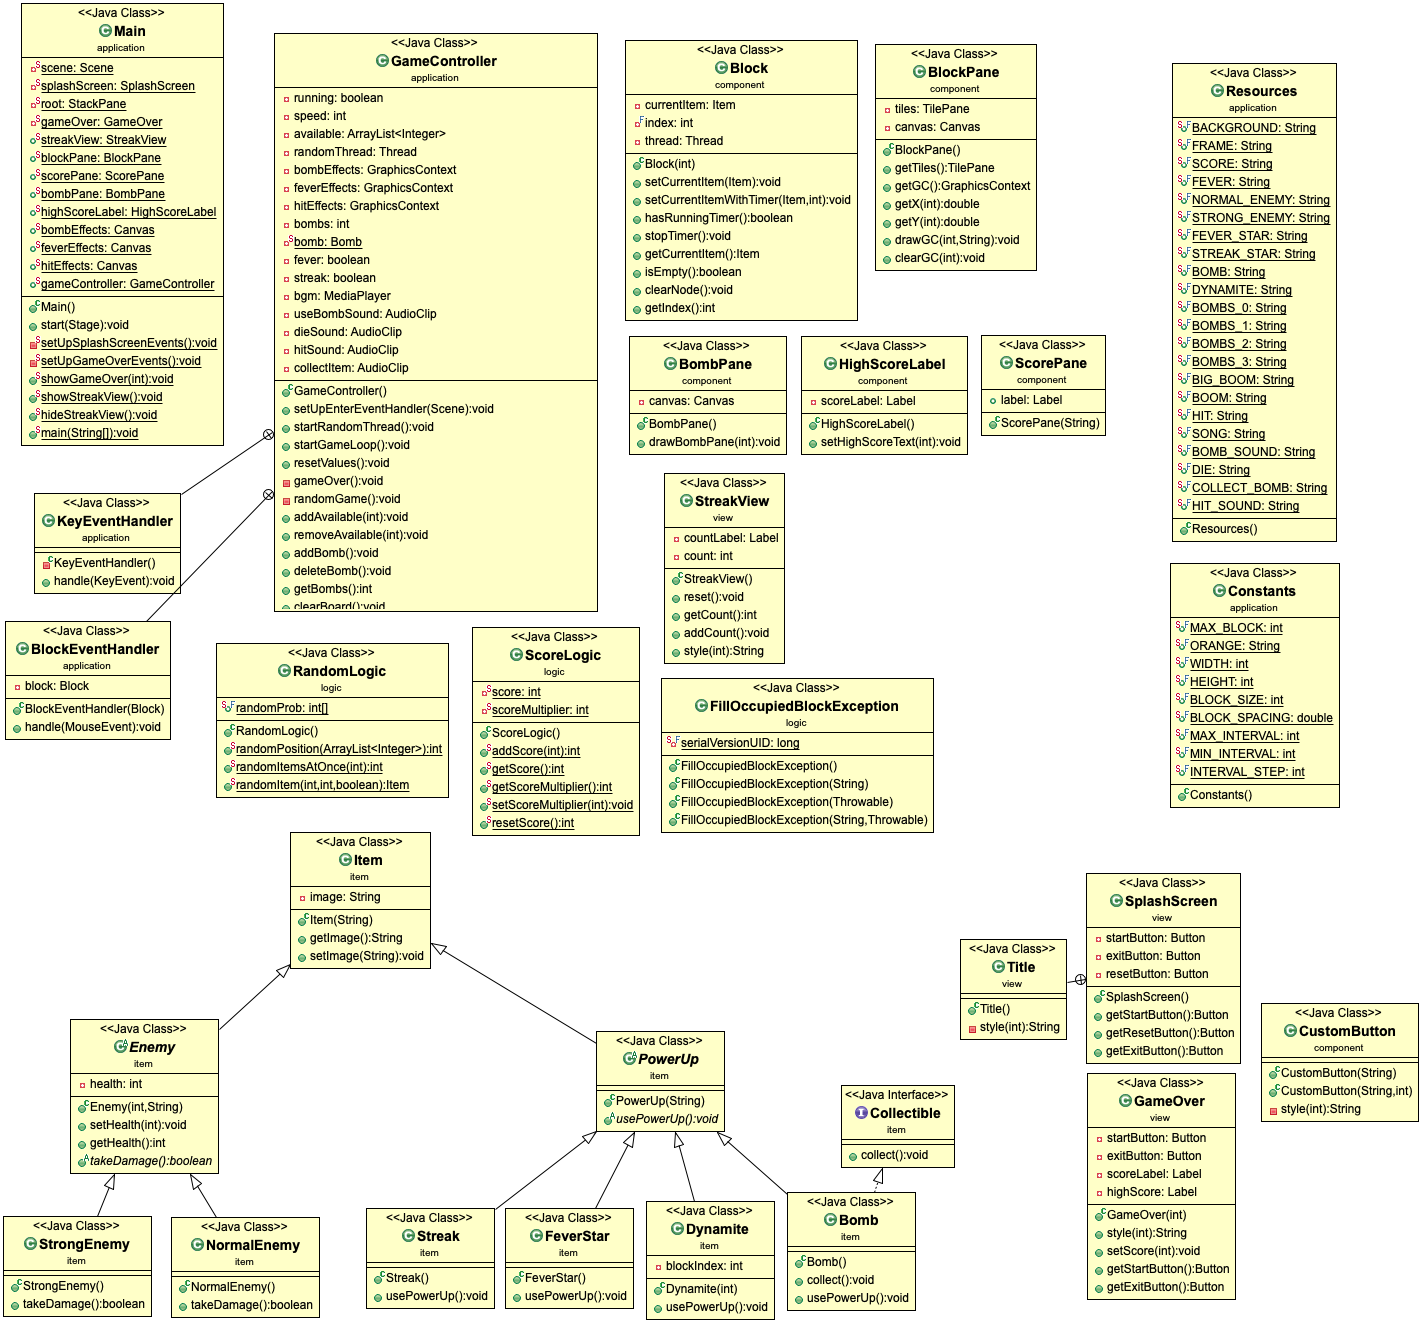
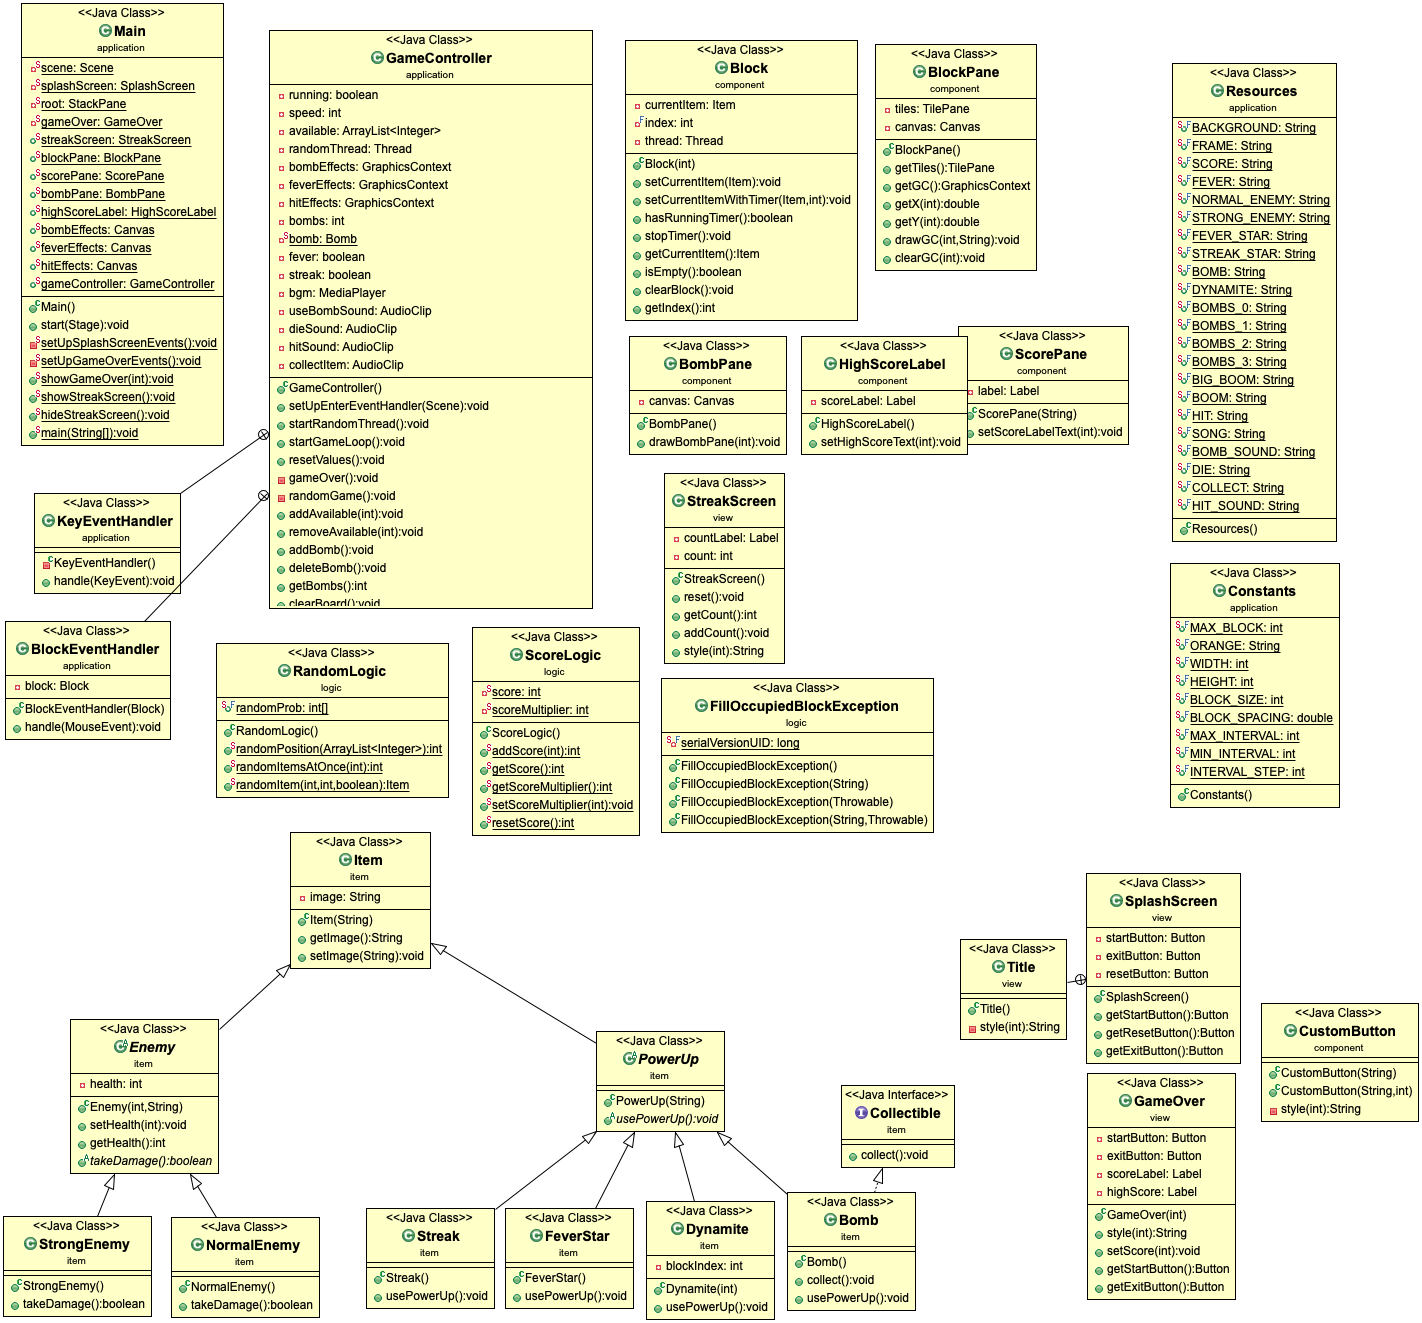
Renamed methods and variables

diff --git a/src/application/GameController.java b/src/application/GameController.java
@@ -46,7 +46,7 @@ public class GameController {
 	private AudioClip useBombSound = new AudioClip(Resources.BOMB_SOUND);
 	private AudioClip dieSound = new AudioClip(Resources.DIE);
 	private AudioClip hitSound = new AudioClip(Resources.HIT_SOUND);
-	private AudioClip collectItem  = new AudioClip(Resources.COLLECT_BOMB);
+	private AudioClip collectItem  = new AudioClip(Resources.COLLECT);
 	
 	public GameController() {
 		this.bombEffects = Main.bombEffects.getGraphicsContext2D();
@@ -106,7 +106,7 @@ public class GameController {
 			// Streak
 			if (streak) {
 				if (e.getCode().equals(KeyCode.SPACE)){
-					Main.streakView.addCount();
+					Main.streakScreen.addCount();
 				}
 			}
 		}
@@ -129,8 +129,8 @@ public class GameController {
 				// Take damage
 				Enemy e = (Enemy) item;
 				if (!e.takeDamage() || fever) {
-					Main.scorePane.label.setText(Integer.toString(ScoreLogic.addScore(100)));
-					block.clearNode();
+					Main.scorePane.setScoreLabelText(ScoreLogic.addScore(100));
+					block.clearBlock();
 					available.add(block.getIndex());
 					// Die sound
 					dieSound.play();
@@ -168,7 +168,7 @@ public class GameController {
 				if (block.hasRunningTimer()) {
 					block.stopTimer();
 				}
-				block.clearNode();
+				block.clearBlock();
 				available.add(block.getIndex());
 			}
 		}
@@ -234,8 +234,9 @@ public class GameController {
 		this.bombEffects.clearRect(0, 0, Constants.WIDTH, Constants.HEIGHT);
 		this.feverEffects.clearRect(0, 0, Constants.WIDTH, Constants.HEIGHT);
 		this.speed = Constants.MAX_INTERVAL;
-		Main.scorePane.label.setText(Integer.toString(ScoreLogic.resetScore()));
+		Main.scorePane.setScoreLabelText(ScoreLogic.resetScore());
 		this.fever = false;
+		this.streak = false;
 		this.bombs = 0;
 		Main.bombPane.drawBombPane(0);
 	}
@@ -244,6 +245,7 @@ public class GameController {
 	private void gameOver() {
 		this.running = false;
 		this.fever = false;
+		this.streak = false;
 		bgm.seek(Duration.ZERO);
 		bgm.stop();
 		Main.showGameOver(ScoreLogic.getScore());
@@ -313,11 +315,11 @@ public class GameController {
 				if (block.getCurrentItem() instanceof Enemy) {
 					ScoreLogic.addScore(100);
 				}
-				block.clearNode();
+				block.clearBlock();
 				available.add(block.getIndex());
 			}
 		}
-		Main.scorePane.label.setText(Integer.toString(ScoreLogic.getScore()));
+		Main.scorePane.setScoreLabelText(ScoreLogic.getScore());
 	}
 	public void startFever() {
 		ScoreLogic.setScoreMultiplier(3);
@@ -356,7 +358,7 @@ public class GameController {
 			if (k >=0 && k<12) {
 				Block block =  (Block) Main.blockPane.getTiles().getChildren().get(k);
 				if (!block.isEmpty()) {
-					block.clearNode();
+					block.clearBlock();
 					if (block.getCurrentItem() instanceof Enemy) {
 						ScoreLogic.addScore(100);
 					} else {
@@ -389,15 +391,15 @@ public class GameController {
 	public void startStreak() {
 		streak = true;
 		randomThread.interrupt();
-		Main.showStreakView();
+		Main.showStreakScreen();
 		collectItem.play();
 		
 		Thread t = new Thread(() -> {
 			try {
 				Thread.sleep(5 * 1000);
 				Platform.runLater(() -> {	
-					Main.scorePane.label.setText(Integer.toString(ScoreLogic.addScore(Main.streakView.getCount() * 100)));
-					Main.hideStreakView();
+					Main.scorePane.setScoreLabelText(ScoreLogic.addScore(Main.streakScreen.getCount() * 100));
+					Main.hideStreakScreen();
 					startRandomThread();
 					streak = false;
 				});

diff --git a/src/application/Main.java b/src/application/Main.java
@@ -4,7 +4,6 @@ import logic.HighScoreLogic;
 
 import view.*;
 
-import java.io.IOException;
 import java.util.Optional;
 
 import component.BlockPane;
@@ -33,7 +32,7 @@ public class Main extends Application {
 	private static SplashScreen splashScreen;
 	private static StackPane root;
 	private static GameOver gameOver;
-	public static StreakView streakView;
+	public static StreakScreen streakScreen;
 	
 	// Components
 	public static BlockPane blockPane;
@@ -111,7 +110,7 @@ public class Main extends Application {
 		gameOver = new GameOver(0);
 		setUpGameOverEvents();
 		// Streak
-		streakView = new StreakView();
+		streakScreen = new StreakScreen();
 		
 		// Set Up Game Controller
 		gameController = new GameController();
@@ -142,11 +141,7 @@ public class Main extends Application {
 			
 			Optional<ButtonType> result = alert.showAndWait();
 			if (result.get() == ButtonType.OK){
-				try {
-					HighScoreLogic.resetHighScore();
-				} catch (IOException ex) {
-					ex.printStackTrace();
-				}
+				HighScoreLogic.resetHighScore();
 				highScoreLabel.setHighScoreText(HighScoreLogic.getHighScore());
 				alert.close();
 			} else {
@@ -179,12 +174,12 @@ public class Main extends Application {
 	}
 	
 	// Streak
-	public static void showStreakView() {
-		root.getChildren().add(streakView);
+	public static void showStreakScreen() {
+		root.getChildren().add(streakScreen);
 	}
-	public static void hideStreakView() {
-		streakView.reset();
-		root.getChildren().remove(streakView);
+	public static void hideStreakScreen() {
+		streakScreen.reset();
+		root.getChildren().remove(streakScreen);
 	}
 	
 	public static void main(String [] args) {

diff --git a/src/component/Block.java b/src/component/Block.java
@@ -22,7 +22,7 @@ public class Block extends StackPane {
 	public void setCurrentItem(Item i) throws FillOccupiedBlockException {
 		if (!this.isEmpty()) throw new FillOccupiedBlockException();
 		this.currentItem = i;
-		this.clearNode();
+		this.clearBlock();
 		Main.blockPane.drawGC(index, currentItem.getImage());
 		this.getChildren().add(i);
 	}
@@ -33,7 +33,7 @@ public class Block extends StackPane {
 			try {
 				Thread.sleep(duration);
 				Platform.runLater(()->{
-					this.clearNode();
+					this.clearBlock();
 					Main.gameController.addAvailable(this.index);
 				});
 			} catch (Exception e) {
@@ -55,7 +55,7 @@ public class Block extends StackPane {
 		return this.getChildren().size() == 0;
 	}
 	
-	public void clearNode() {
+	public void clearBlock() {
 		Main.blockPane.clearGC(index);
 		if (!isEmpty()) {
 			this.getChildren().remove(0);

diff --git a/src/application/Resources.java b/src/application/Resources.java
@@ -28,6 +28,6 @@ public class Resources {
 	public static final String SONG = ClassLoader.getSystemResource("audio/song.m4a").toString();
 	public static final String BOMB_SOUND = ClassLoader.getSystemResource("audio/bombSound.m4a").toString();
 	public static final String DIE = ClassLoader.getSystemResource("audio/getHit.m4a").toString();
-	public static final String COLLECT_BOMB = ClassLoader.getSystemResource("audio/collectBomb.m4a").toString();
+	public static final String COLLECT = ClassLoader.getSystemResource("audio/collectBomb.m4a").toString();
 	public static final String HIT_SOUND = ClassLoader.getSystemResource("audio/hit.m4a").toString();
 }

diff --git a/src/component/ScorePane.java b/src/component/ScorePane.java
@@ -12,7 +12,7 @@ import javafx.scene.paint.Color;
 
 public class ScorePane extends StackPane {
 	
-	public Label label;
+	private Label label;
 	
 	public ScorePane(String text) {
 		Image scoreBG = new Image(Resources.SCORE);
@@ -27,5 +27,9 @@ public class ScorePane extends StackPane {
 		label.setTextFill(Color.web("white"));
 		label.setStyle("-fx-font-family: 'Titan One', cursive; -fx-font-size: 30px");
 		getChildren().add(label);
+	}
+	
+	public void setScoreLabelText(int score) {
+		label.setText(Integer.toString(score));
 	}
 }

diff --git a/src/logic/FillOccupiedBlockException.java b/src/logic/FillOccupiedBlockException.java
@@ -10,14 +10,14 @@ public class FillOccupiedBlockException extends Exception {
 	public FillOccupiedBlockException() {}
 	
 	public FillOccupiedBlockException(String message) {
-		super (message);
+		super(message);
 	}
 
 	public FillOccupiedBlockException(Throwable cause) {
-		super (cause);
+		super(cause);
 	}
 
 	public FillOccupiedBlockException(String message, Throwable cause) {
-		super (message, cause);
+		super(message, cause);
 	}	
 }

diff --git a/src/view/StreakScreen.java b/src/view/StreakScreen.java
@@ -5,12 +5,12 @@ import javafx.scene.control.Label;
 import javafx.scene.layout.VBox;
 import javafx.scene.paint.Color;
 
-public class StreakView extends VBox {
+public class StreakScreen extends VBox {
 	
 	private Label countLabel;
 	private int count = 0;
 	
-	public StreakView() {
+	public StreakScreen() {
 		setSpacing(15);
 		setAlignment(Pos.CENTER);
 		

diff --git a/src/logic/HighScoreLogic.java b/src/logic/HighScoreLogic.java
@@ -38,7 +38,7 @@ public class HighScoreLogic {
 		}
 	}
 	
-	public static void resetHighScore() throws IOException {
+	public static void resetHighScore() {
 		getFile();
 		
 		String fileContent = new String("0"); 
